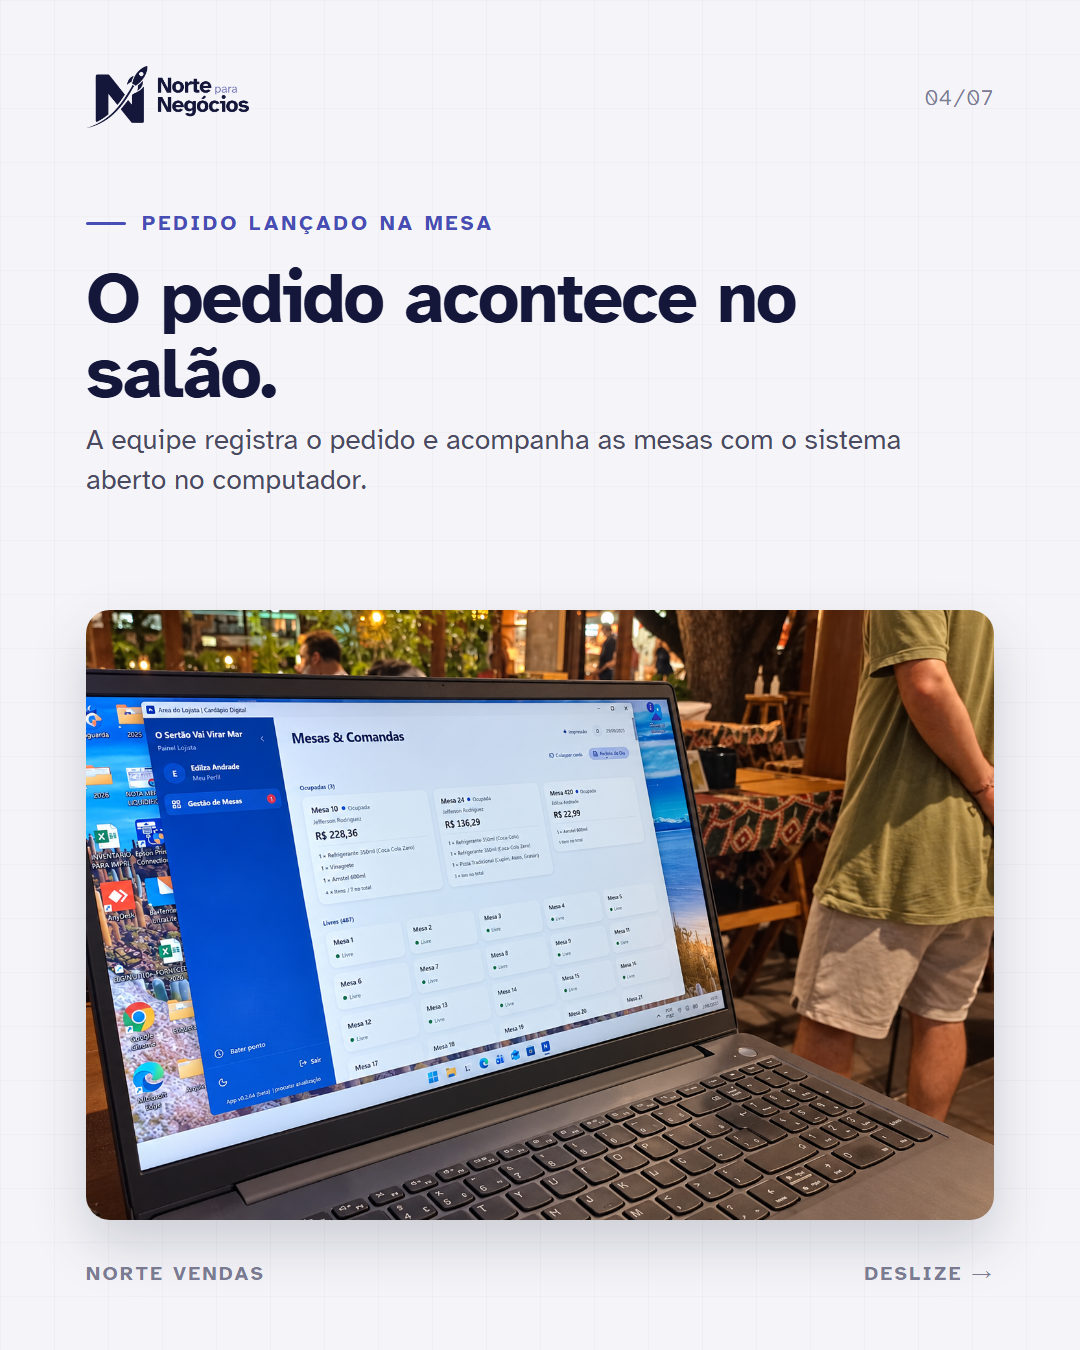
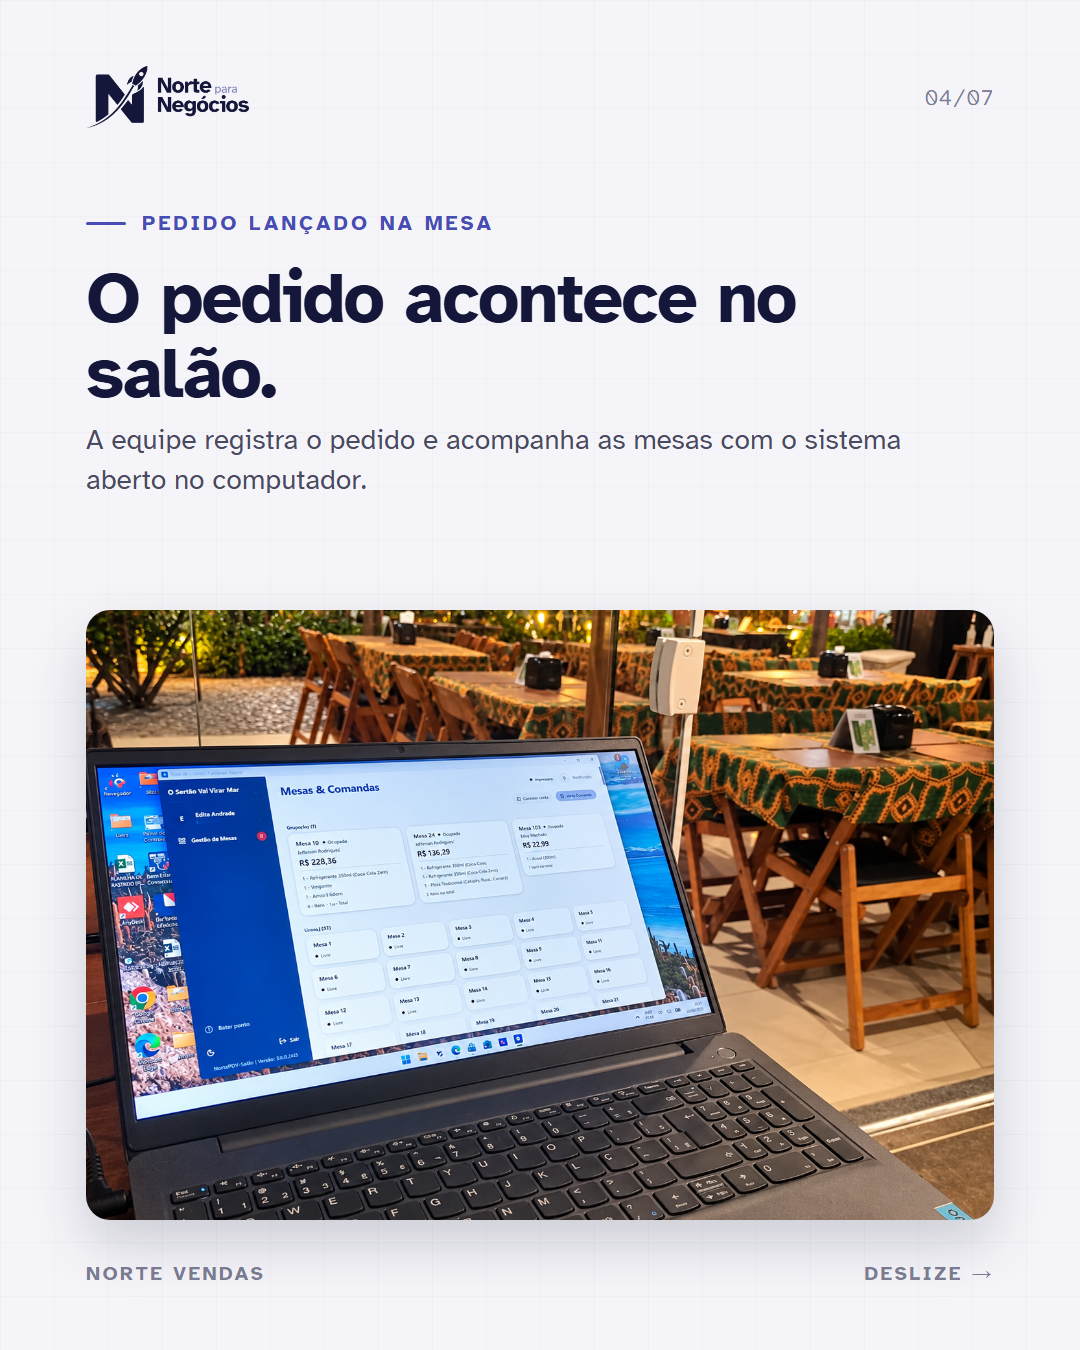
Use a distinct computer angle on QR carousel slide four

Changed region(s): [[0.0611, 0.4356, 0.9472, 0.9022], [0.4278, 0.6844, 0.4583, 0.7156]]

diff --git a/src/templates/NorteVendasPost.tsx b/src/templates/NorteVendasPost.tsx
@@ -43,7 +43,7 @@ const LOGO_VENDAS_BRANCO = kit('01-logos/norte-vendas/horizontal/norte-vendas_ho
 const LOGO_VENDAS_COR = kit('01-logos/norte-vendas/horizontal/norte-vendas_horizontal_vendas_transparente.png');
 const TELA_MESAS = kit('08-recursos/telas-oficiais/vendas/d-mesas.png');
 const TELA_CARDAPIO = kit('08-recursos/telas-oficiais/vendas/m-cliente-cardapio.png');
-const FOTO_OPERACAO_COMPUTADOR = staticFile('operacao-real/foto-equipe.png');
+const FOTO_OPERACAO_COMPUTADOR = staticFile('operacao-real/foto-computador-angulo.png');
 const FOTO_OPERACAO_SALAO = staticFile('operacao-real/foto-atendimento.png');
 const QR_TOTAL = 7;
 
